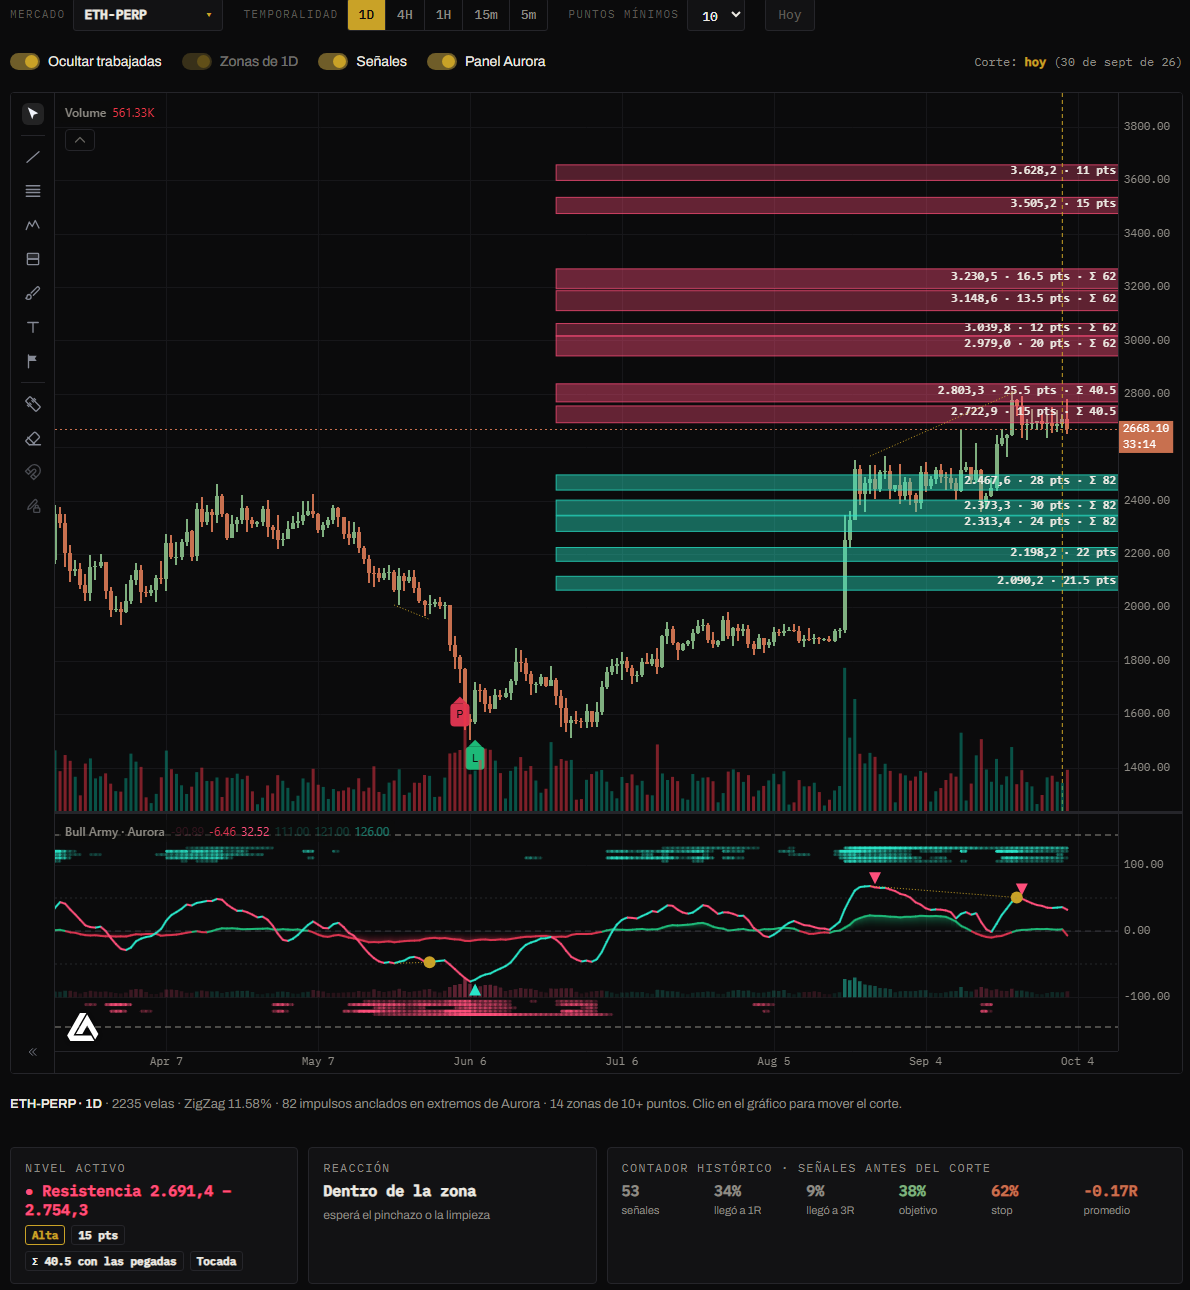
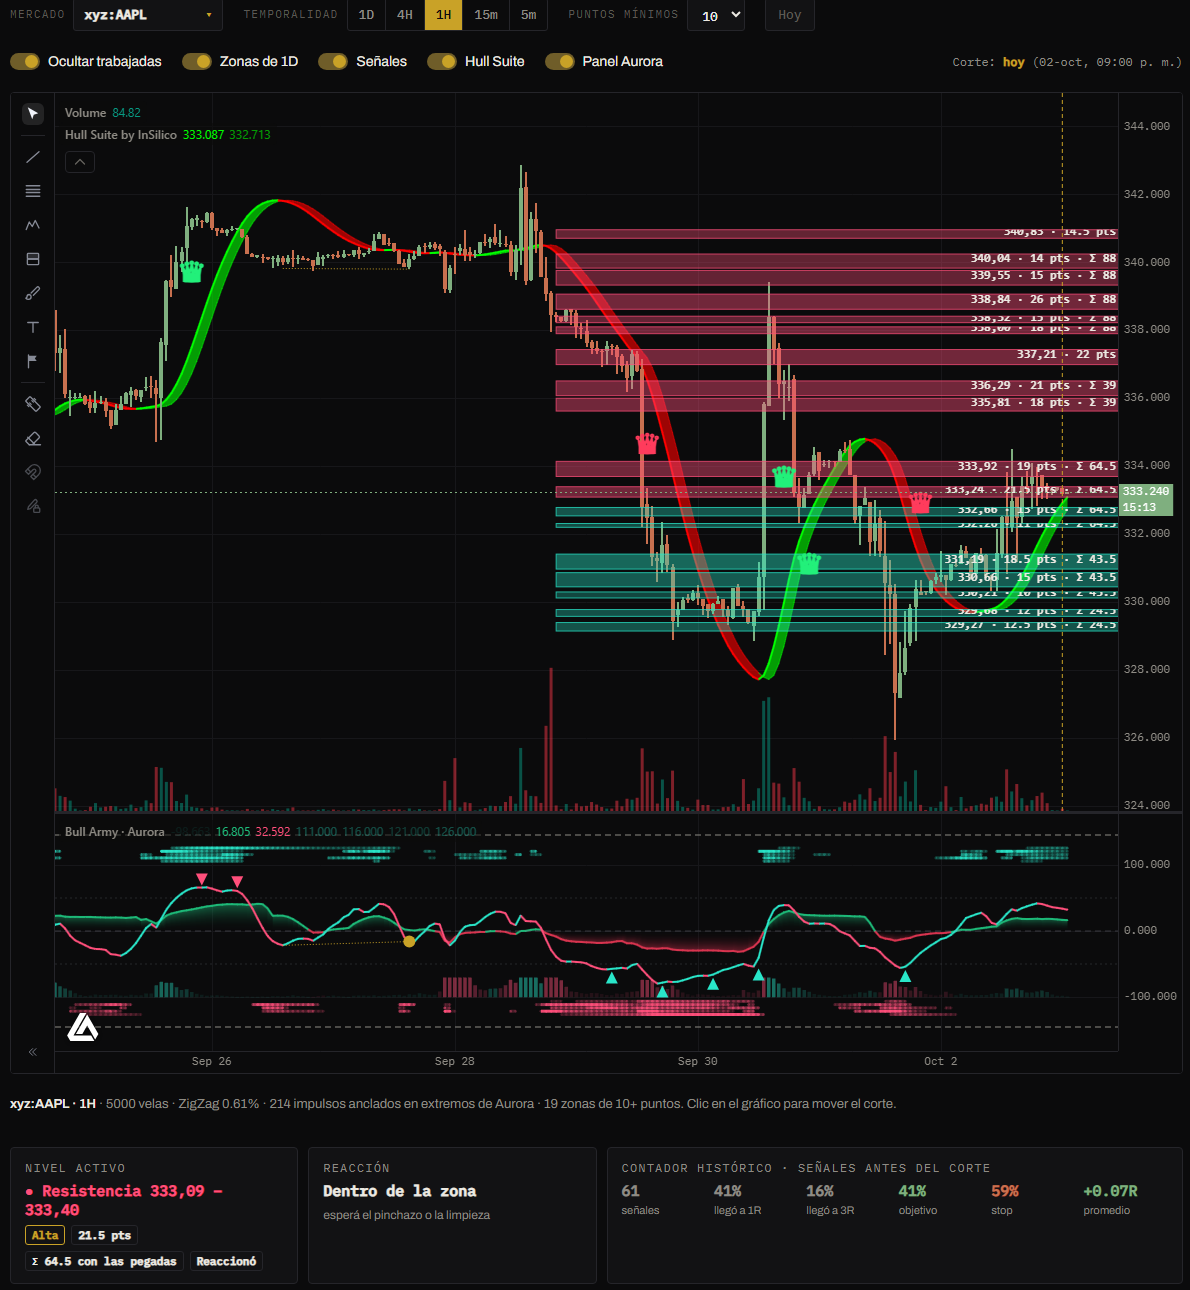
Niveles: Hull Suite en el gráfico, señales solo a favor del Hull y coronas
- El Hull Suite (HMA 55) se dibuja sobre las velas, con su interruptor.
- Las señales contra la tendencia del Hull se descartan (compras solo con el
  Hull alcista, ventas solo bajista; misma regla hull > hull[2] que lo
  colorea), y el contador histórico tampoco las cuenta.
- Compra: corona verde debajo de la vela; venta: corona roja arriba. El tipo
  (pinchazo o limpieza) y el resultado quedan en el tooltip y la tabla.
- GitBook actualizado.

diff --git a/src/js/niveles/ui.js b/src/js/niveles/ui.js
@@ -5,7 +5,7 @@ window.createNiveles = function createNiveles(env) {
   'use strict';
   const $ = (id) => document.getElementById(id);
   const N = window.NivelesMath, A = window.AuroraMath;
-  const AURORA = $('auroraPine').textContent;
+  const AURORA = $('auroraPine').textContent, HULL = $('hullPine').textContent;
   const TFS = { '1D': '1d', 240: '4h', 60: '1h', 15: '15m', 5: '5m' };
   const IV_MS = { '1d': 864e5, '4h': 144e5, '1h': 36e5, '15m': 9e5, '5m': 3e5 };
   const C = { sup: '#29E6C9', res: '#FF4F7B', gold: '#C9A227', grey: '#5B5953', up: '#1DB978', dn: '#D8344F', fg: '#ECE9E2', txt: '#0B0B0E' };
@@ -15,11 +15,11 @@ window.createNiveles = function createNiveles(env) {
     get() { try { return JSON.parse(localStorage.getItem('baNiveles')) || {}; } catch { return {}; } },
     set(v) { try { localStorage.setItem('baNiveles', JSON.stringify(v)); } catch {} }
   };
-  const st = { symbol: 'BTC', tf: '60', minPts: 10, hideWorked: true, mtf: true, sigs: true, aurora: true, ...store.get() };
+  const st = { symbol: 'BTC', tf: '60', minPts: 10, hideWorked: true, mtf: true, sigs: true, aurora: true, hull: true, ...store.get() };
   if (!TFS[st.tf]) st.tf = '60';
-  const save = () => store.set({ symbol: st.symbol, tf: st.tf, minPts: st.minPts, hideWorked: st.hideWorked, mtf: st.mtf, sigs: st.sigs, aurora: st.aurora });
+  const save = () => store.set({ symbol: st.symbol, tf: st.tf, minPts: st.minPts, hideWorked: st.hideWorked, mtf: st.mtf, sigs: st.sigs, aurora: st.aurora, hull: st.hull });
 
-  let chart = null, hNat = null, hAur = null, started = null, visible = false, rev = 0;
+  let chart = null, hNat = null, hAur = null, hHull = null, started = null, visible = false, rev = 0;
   let data = { key: '', k: [], osc: [], d1: null }, cut = null, model = null, ws = null, wsTimer = null, loadTok = 0;
   const iv = () => TFS[st.tf];
   const real = (alias) => env.CAT.realOf.get(alias) || alias;
@@ -77,16 +77,17 @@ window.createNiveles = function createNiveles(env) {
   function recompute(fresh) {
     const k = closed(data.raw, IV_MS[iv()]);
     if (k.length < 120) { model = null; $('nvNote').textContent = 'Este mercado no tiene historia suficiente en esta temporalidad.'; render(); return; }
-    if (fresh || k.length !== data.k.length) { data.k = k; data.osc = A.compute(k).osc; }
+    if (fresh || k.length !== data.k.length) { data.k = k; data.osc = A.compute(k).osc; data.hull = A.hull(k.map((x) => x.c), 55, 'Hma'); }
     const at = cut == null ? k.length - 1 : Math.min(cut, k.length - 1);
-    const opt = { minPts: st.minPts, hideWorked: st.hideWorked };
+    // Las señales siempre respetan la tendencia del Hull Suite (HMA 55, la misma que se dibuja).
+    const opt = { minPts: st.minPts, hideWorked: st.hideWorked, hull: data.hull };
     const r = N.analyze(k, data.osc, iv(), at, opt);
     // Zonas diarias al mismo corte (solo las que ya existían en esa fecha).
     let d1 = null;
     if (st.mtf && data.d1) {
       const dk = closed(data.d1, IV_MS['1d']), t = k[at].t;
       let j = dk.length - 1; while (j >= 0 && dk[j].t + IV_MS['1d'] > t + IV_MS[iv()]) j--;
-      if (j > 120) d1 = N.analyze(dk, A.compute(dk).osc, '1d', j, { ...opt, minPts: Math.max(st.minPts, 10) }).zones;
+      if (j > 120) d1 = N.analyze(dk, A.compute(dk).osc, '1d', j, { minPts: Math.max(st.minPts, 10), hideWorked: st.hideWorked }).zones;
     }
     model = { alias: st.symbol, k, at, r, d1 };
     render();
@@ -125,11 +126,11 @@ window.createNiveles = function createNiveles(env) {
     if (st.sigs) {
       const rng = (i) => { let s = 0, n = 0; for (let q = Math.max(0, i - 13); q <= i; q++) { s += k[q].h - k[q].l; n++; } return s / n; };
       for (const s of r.sigs) {
-        const col = s.res === 'objetivo' ? C.up : s.res === 'stop' ? C.dn : C.gold, b = k[s.i];
+        const col = s.long ? '#22F07A' : '#FF3B5C', b = k[s.i];   // corona verde (compra) o roja (venta), bien visibles sobre las zonas
         const tip = `${s.kind === 'pinchazo' ? 'Pinchazo' : 'Limpieza'} ${s.long ? 'alcista' : 'bajista'} · entrada ${fmt(s.entry)} · stop ${fmt(s.stop)} · objetivo ${fmt(s.target)} (${s.rr.toFixed(1)}R) · ` +
           (s.res === 'objetivo' ? `llegó al objetivo (+${s.r.toFixed(1)}R)` : s.res === 'stop' ? `tocó el stop (llegó a ${s.best.toFixed(1)}R a favor)` : `abierta (${s.r >= 0 ? '+' : ''}${s.r.toFixed(1)}R)`);
-        labels.push({ id: 'nv:s:' + s.i + (s.long ? 'l' : 's'), paneId: '', xloc: 'bar_time', x: s.t, y: s.long ? b.l - rng(s.i) * 0.6 : b.h + rng(s.i) * 0.6, yloc: 'price',
-          style: s.long ? 'label_up' : 'label_down', color: col, textColor: C.txt, text: s.kind === 'pinchazo' ? 'P' : 'L', size: 'small', textAlign: 'center', fontFamily: 'default', tooltip: tip, overlay: true });
+        labels.push({ id: 'nv:s:' + s.i + (s.long ? 'l' : 's'), paneId: '', xloc: 'bar_time', x: s.t, y: s.long ? b.l - rng(s.i) * 1.2 : b.h + rng(s.i) * 1.2, yloc: 'price',
+          style: 'none', noFill: true, color: col, textColor: col, text: '♛', size: 'huge', bold: true, textAlign: 'center', fontFamily: 'default', tooltip: tip, overlay: true });
         if (s.res === 'abierta') {
           const t2 = s.t + IV_MS[iv()] * 30;
           [[s.entry, C.fg], [s.stop, C.dn], [s.target, C.up]].forEach(([y, c2], q) => lines.push({ id: `nv:o:${s.i}:${q}`, paneId: '', xloc: 'bar_time', x1: s.t, y1: y, x2: t2, y2: y, extend: 'none', color: c2, invisible: false, width: 1, style: q ? 'dashed' : 'solid', arrowLeft: false, arrowRight: false, overlay: true }));
@@ -207,6 +208,13 @@ window.createNiveles = function createNiveles(env) {
       if (a.ok) hAur = chart.indicators().find((x) => x.source === AURORA) || null;
     } else if (!st.aurora && hAur) { const h = hAur; hAur = null; h.remove(); }
   }
+  async function syncHull() {
+    if (!chart) return;
+    if (st.hull && !hHull) {
+      const h = await chart.runIndicator(HULL, { inputs: {} });
+      if (h.ok) hHull = chart.indicators().find((x) => x.source === HULL) || null;
+    } else if (!st.hull && hHull) { const h = hHull; hHull = null; h.remove(); }
+  }
   async function switchMarket() {
     cut = null; syncTf();
     veil('Cargando ' + env.labelOf(st.symbol) + ' ' + env.TF_LABEL[st.tf] + '…');
@@ -218,7 +226,7 @@ window.createNiveles = function createNiveles(env) {
   function syncTf() {
     document.querySelectorAll('#nvTf button').forEach((b) => b.setAttribute('aria-pressed', String(b.dataset.tf === st.tf)));
     $('nvMin').value = String(st.minPts);
-    $('nvHide').checked = st.hideWorked; $('nvMtf').checked = st.mtf; $('nvSig').checked = st.sigs; $('nvAur').checked = st.aurora;
+    $('nvHide').checked = st.hideWorked; $('nvMtf').checked = st.mtf; $('nvSig').checked = st.sigs; $('nvAur').checked = st.aurora; $('nvHull').checked = st.hull;
     $('nvMtf').disabled = iv() === '1d';
   }
   async function build() {
@@ -243,6 +251,7 @@ window.createNiveles = function createNiveles(env) {
         cut = j >= k.length - 1 ? null : Math.max(120, j); recompute();
       });
       veil(null);
+      await syncHull();
       syncAurora();
     } catch (e) { veil('No se pudo iniciar el gráfico: ' + (e && e.message || e), true); }
     load();
@@ -256,6 +265,7 @@ window.createNiveles = function createNiveles(env) {
   $('nvMtf').addEventListener('change', () => { st.mtf = $('nvMtf').checked; save(); recompute(); });
   $('nvSig').addEventListener('change', () => { st.sigs = $('nvSig').checked; save(); redraw(); });
   $('nvAur').addEventListener('change', () => { st.aurora = $('nvAur').checked; save(); syncAurora(); });
+  $('nvHull').addEventListener('change', () => { st.hull = $('nvHull').checked; save(); syncHull(); });
   $('nvToday').addEventListener('click', () => { cut = null; recompute(); });
   // ← → mueven el corte una vela (con Shift, diez) mientras se ve la sección.
   window.addEventListener('keydown', (e) => {

diff --git a/src/index.html b/src/index.html
@@ -493,6 +493,7 @@
     <label class="tog"><input type="checkbox" id="nvHide" checked> Ocultar trabajadas</label>
     <label class="tog"><input type="checkbox" id="nvMtf" checked> Zonas de 1D</label>
     <label class="tog"><input type="checkbox" id="nvSig" checked> Señales</label>
+    <label class="tog"><input type="checkbox" id="nvHull" checked> Hull Suite</label>
     <label class="tog"><input type="checkbox" id="nvAur" checked> Panel Aurora</label>
     <span class="spacer"></span>
     <span class="nv-cut" id="nvCut"></span>
@@ -511,7 +512,7 @@
     <div class="nv-tbl"><h2>Zonas al corte</h2><table><thead><tr><th>Tipo</th><th>Rango</th><th>Pts</th><th>Fibo</th><th>Estado</th><th>Dist.</th></tr></thead><tbody id="nvZones"></tbody></table></div>
     <div class="nv-tbl"><h2>Últimas señales</h2><table><thead><tr><th>Vela</th><th>Señal</th><th>Entrada</th><th>Stop</th><th>Objetivo</th><th>R:R</th><th>Resultado</th></tr></thead><tbody id="nvSigs"></tbody></table></div>
   </div>
-  <p class="note">Pinchazo (P): toca la zona y cierra afuera; stop detrás de la mecha. Limpieza (L): atraviesa la zona entera y vuelve; stop detrás del barrido. Objetivo: la zona opuesta más cercana. Verde = llegó al objetivo, rojo = stop, dorado = abierta. Material educativo, no es consejo financiero.</p>
+  <p class="note"><b class="up">♛</b> debajo de la vela = compra · <b class="dn">♛</b> arriba = venta. Solo a favor del Hull Suite: compras con el Hull verde, ventas con el Hull rojo. Pinchazo: toca la zona y cierra afuera, stop detrás de la mecha. Limpieza: atraviesa la zona entera y vuelve, stop detrás del barrido. Objetivo: la zona opuesta más cercana. Pasá el mouse sobre la corona para ver el detalle. Material educativo, no es consejo financiero.</p>
   </section>
 
   <section id="panel-spag" class="spag" aria-labelledby="h-spag" hidden>

diff --git a/src/js/niveles/calc.js b/src/js/niveles/calc.js
@@ -145,6 +145,8 @@
   //  · Pinchazo: la vela entra en la zona y cierra afuera, del lado del que vino.
   //  · Limpieza: el precio cerró del otro lado de la zona y vuelve a cerrar adentro o del lado original.
   // Una señal por zona: la de su primera visita después de formarse (la que más respeta el precio).
+  // Con `o.hull` (serie del Hull Suite) se descartan las señales contra su tendencia: compras solo con el
+  // Hull alcista (hull > hull de 2 velas atrás, la misma regla que colorea el Hull) y ventas solo bajista.
   // Stop detrás del extremo (mecha o barrido) y objetivo en la zona opuesta más cercana (o 3R si no hay).
   function signals(k, imps, P, o, minPts) {
     const out = [], confs = [...new Set(imps.map((m) => m.conf))].sort((a, b) => a - b);
@@ -180,6 +182,10 @@
         if (!kind) { if (c.l <= z.hi && c.h >= z.lo && !swept.has(z.id + 'd') && !swept.has(z.id + 'u')) used.add(z.id); continue; }
         const long = stop < c.c, entry = c.c, risk = Math.abs(entry - stop);
         if (!(risk > 0)) continue;
+        if (o.hull) {
+          const h = o.hull[i], h2 = o.hull[i - 2];
+          if (!ok(h) || !ok(h2) || (long ? h <= h2 : h >= h2)) { used.add(z.id); continue; }   // contra el Hull: se descarta (la visita cuenta igual)
+        }
         const opp = zones.filter((x) => (long ? x.lo > entry + risk * 0.5 : x.hi < entry - risk * 0.5)).sort((a, b) => (long ? a.lo - b.lo : b.hi - a.hi))[0];
         const target = opp ? (long ? opp.lo : opp.hi) : entry + (long ? 3 : -3) * risk;
         out.push({ i, t: c.t, kind, long, entry, stop, target, rr: Math.abs(target - entry) / risk, zone: { lo: z.lo, hi: z.hi, pts: z.pts }, ...outcome(k, i, long, entry, stop, target, o.horizon) });

diff --git a/docs/secciones/niveles.md b/docs/secciones/niveles.md
@@ -1,5 +1,5 @@
 ---
-description: Zonas de confluencia Fibonacci ancladas en extremos de Aurora, con línea de corte, señales y su historial.
+description: Zonas de confluencia Fibonacci ancladas en extremos de Aurora, con Hull Suite, línea de corte, señales y su historial.
 ---
 
 # Niveles
@@ -30,7 +30,8 @@ Una zona **no dice que el precio va a girar ahí.** Dice que, *si* gira ahí, el
 | **Hoy** | Vuelve la línea de corte al presente. |
 | **Ocultar trabajadas** | Oculta las zonas que el precio ya superó. |
 | **Zonas de 1D** | En temporalidades chicas, suma las zonas diarias en **dorado punteado**. |
-| **Señales** | Muestra u oculta las marcas P y L. |
+| **Señales** | Muestra u oculta las coronas de compra y venta. |
+| **Hull Suite** | La tendencia sobre las velas (HMA 55): verde alcista, rojo bajista. |
 | **Panel Aurora** | El oscilador debajo del precio, para ver los extremos. |
 
 ## La línea de corte
@@ -65,15 +66,23 @@ Debajo del gráfico:
 
 ## Las señales
 
-| Marca | Señal | Stop |
+| Marca | Significa |
+|---|---|
+| 🟢 **♛ debajo de la vela** | Compra |
+| 🔴 **♛ arriba de la vela** | Venta |
+
+Hay dos tipos de señal, y el tipo se ve al pasar el mouse sobre la corona y en la tabla:
+
+| Tipo | Qué pasa | Stop |
 |---|---|---|
-| **P** · Pinchazo | El precio toca la zona y cierra afuera, del lado del que venía. | Detrás de la mecha. |
-| **L** · Limpieza | El precio atraviesa la zona entera, cierra del otro lado y vuelve a entrar. | Detrás del extremo del barrido. |
+| **Pinchazo** | El precio toca la zona y cierra afuera, del lado del que venía. | Detrás de la mecha. |
+| **Limpieza** | El precio atraviesa la zona entera, cierra del otro lado y vuelve a entrar. | Detrás del extremo del barrido. |
+
+**Solo a favor del Hull Suite:** las compras se dan únicamente con el Hull verde (alcista) y las ventas con el Hull rojo (bajista). Las señales en contra de la tendencia se descartan, y el contador histórico tampoco las cuenta.
 
 - **Objetivo:** la zona opuesta más cercana. Si no hay, 3 veces el riesgo (3R).
 - **Una señal por zona:** la de su **primera visita** después de formarse.
-- **Colores:** 🟢 llegó al objetivo · 🔴 tocó el stop · 🟡 todavía abierta.
-- Pasá el mouse sobre la marca para ver la entrada, el stop, el objetivo y el resultado. Las señales abiertas muestran sus tres líneas.
+- Pasá el mouse sobre la corona para ver el tipo, la entrada, el stop, el objetivo y cómo terminó. Las señales abiertas muestran sus tres líneas: entrada, stop y objetivo.
 
 ### El contador histórico
 
@@ -91,5 +100,5 @@ Para cada mercado y temporalidad cuenta las señales anteriores al corte:
 
 1. Mirá las zonas en **1D** o **4H** para saber dónde están las confluencias grandes.
 2. Bajá a **15m** o **5m** con **Zonas de 1D** prendido: las entradas en zonas que coinciden con una diaria son las más sólidas.
-3. Esperá un **pinchazo** o una **limpieza** y poné el stop donde indica la señal.
+3. Esperá la **corona** (pinchazo o limpieza a favor del Hull) y poné el stop donde indica la señal.
 4. Si hay varias zonas seguidas a favor, no cierres en la primera: suelen limpiarse juntas.
